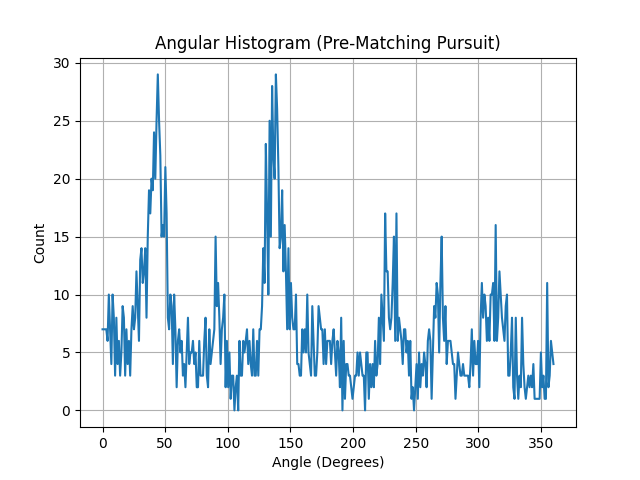
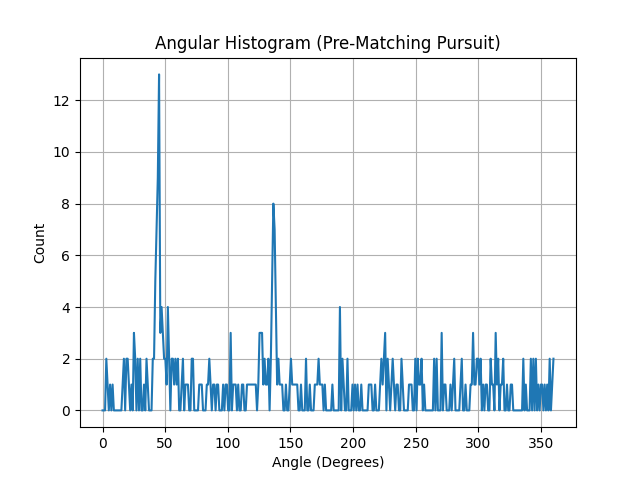
localization fixed

diff --git a/localization/algo.py b/localization/algo.py
@@ -3,16 +3,17 @@ import scipy.signal as signal
 from scipy.linalg import eigh
 
 class LocalizationSystem:
-    def __init__(self, mic_pos, fs=16000, nfft=512, overlap=0.5, epsilon=0.2, d_freq=2, freq_range=(200, 3000)):
+    def __init__(self, mic_pos, fs=16000, nfft=512, overlap=0.5, epsilon=0.2, d_freq=2, freq_range=(200, 3000), max_sources=4):
         """
         Args:
             mic_pos: (3, M) numpy array of microphone positions.
             fs: Sampling frequency.
             nfft: FFT size.
             overlap: Overlap fraction (0 to 1).
-            epsilon: SSZ detection threshold (lambda2 / lambda1 < epsilon).
+            epsilon: SSZ detection threshold (correlation >= 1 - epsilon).
             d_freq: Number of frequency components to group/average per zone.
             freq_range: Tuple (min_freq, max_freq) in Hz to process.
+            max_sources: Maximum number of sources to detect in Matching Pursuit.
         """
         self.mic_pos = mic_pos
         self.fs = fs
@@ -21,6 +22,7 @@ class LocalizationSystem:
         self.epsilon = epsilon
         self.d_freq = d_freq
         self.freq_range = freq_range
+        self.max_sources = max_sources
         self.c = 343.0  # Speed of sound
 
     def process(self, audio):
@@ -59,44 +61,57 @@ class LocalizationSystem:
                 # Extract block: (M, d_freq)
                 block = Zxx[:, f_idx : f_idx + self.d_freq, t_idx] # Shape (M, d)
                 
-                # Compute Spatial Correlation Matrix R (averaged over the d freq bins)
-                # R = (1/d) * sum(x * x^H)
-                R = np.zeros((M, M), dtype=complex)
-                for k in range(self.d_freq):
-                    vec = block[:, k][:, np.newaxis] # (M, 1)
-                    R += vec @ vec.conj().T
-                R /= self.d_freq
+                # --- New SSZ Detection: Magnitude Correlation Coefficient ---
+                # r' = sum(|Xi||Xj|) / sqrt(sum|Xi|^2 sum|Xj|^2)
+                # Averaged over adjacent pairs.
                 
-                # SSZ Detection
-                # Eigen decomposition
-                # eigh returns eigenvalues in ascending order
-                eigvals = eigh(R, eigvals_only=True)
-                # eigvals are sorted ascending: lambda_0 <= lambda_1 ... <= lambda_{M-1}
-                # We want lambda_{M-2} / lambda_{M-1} < epsilon
-                # (Ratio of second largest to largest)
+                mags = np.abs(block) # (M, d)
                 
-                if eigvals[-1] > 1e-10: # Avoid division by zero/noise
-                    ratio = eigvals[-2] / eigvals[-1]
-                    if ratio < self.epsilon:
-                        # It is an SSZ. Estimate DOA.
-                        # CICS: maximize coherent sum of phase rotated cross-power spectra.
-                        # Actually for a single zone, this is equivalent to finding the peak 
-                        # of the beamformer spectrum or SRP.
-                        
-                        # Frequencies in this zone
-                        freqs = f_vec[f_idx : f_idx + self.d_freq]
-                        
-                        best_angle = self._cics_doa(R, freqs, search_angles)
-                        ssz_doas.append(best_angle)
+                # Compute energies for denominator
+                energies = np.sum(mags**2, axis=1) # (M,)
+                
+                # Check for silence to avoid div by zero
+                if np.any(energies < 1e-10):
+                    continue
+                
+                avg_corr = 0.0
+                
+                for i in range(M):
+                    j = (i + 1) % M
+                    
+                    # Numerator: sum over freq of |Xi||Xj|
+                    num = np.sum(mags[i] * mags[j])
+                    
+                    # Denominator
+                    den = np.sqrt(energies[i] * energies[j])
+                    
+                    corr = num / den
+                    avg_corr += corr
+                
+                avg_corr /= M
+                
+                if avg_corr >= (1.0 - self.epsilon):
+                    # It is an SSZ. Estimate DOA.
+                    
+                    # For DOA estimation, we still need the Spatial Correlation Matrix R
+                    # R = (1/d) * sum(x * x^H)
+                    R = np.zeros((M, M), dtype=complex)
+                    for k in range(self.d_freq):
+                        vec = block[:, k][:, np.newaxis] # (M, 1)
+                        R += vec @ vec.conj().T
+                    R /= self.d_freq
+                    
+                    # Frequencies in this zone
+                    freqs = f_vec[f_idx : f_idx + self.d_freq]
+                    
+                    best_angle = self._cics_doa(R, freqs, search_angles)
+                    ssz_doas.append(best_angle)
 
         # 2. Histogram Construction
         # Simple histogram
         hist, edges = np.histogram(ssz_doas, bins=360, range=(0, 2*np.pi))
         
-        # Smooth histogram? The prompt mentions "matching pursuit loop w blackman window atoms".
-        # This implies we use the MP on the histogram itself.
-        
-        # 3. Matching Pursuit
+        # 3. Matching Pursuit (Updated)
         final_doas = self._matching_pursuit(hist, edges)
         
         return final_doas, hist
@@ -108,64 +123,26 @@ class LocalizationSystem:
         M = self.mic_pos.shape[1]
         num_angles = len(angles)
         
-        # CICS function: P(phi) = Sum_{i,j} | R_ij | * cos( phase(R_ij) - omega * tau_ij(phi) )
-        # OR simply Beamformer Output Power: w^H R w
-        # The prompt says: "maximize coherent sum of phase rotated cross-power spectra"
-        # This usually means: Sum_{i!=j} R_ij * exp(-j * omega * tau_ij)
-        # We can sum this over the 'd' frequencies.
-        
-        # Let's vectorize over angles.
-        
         # Mic positions (2D)
         pos_x = self.mic_pos[0, :]
         pos_y = self.mic_pos[1, :]
         
         # Direction vectors for all search angles
-        # u = [cos(phi), sin(phi)]
         u_x = np.cos(angles)
         u_y = np.sin(angles)
         
-        cost = np.zeros(num_angles)
-        
-        # Precompute TDOAs for all pairs is expensive? 
-        # Let's optimize: sum over pairs.
-        
-        # We can iterate over frequencies in the zone
-        for k, f_hz in enumerate(freqs):
-            omega = 2 * np.pi * f_hz
-            k_wave = omega / self.c
-            
-            # Extract R for this freq (Wait, R passed in is Averaged R)
-            # If R is averaged, we can't strictly apply different phase shifts for different freqs 
-            # effectively unless we assume narrowband or center freq.
-            # "d=2" is small, so we can use the center frequency of the zone.
-            pass
-            
-        # Use center frequency of the zone for the phase shift approximation
+        # Use center frequency of the zone
         center_freq = np.mean(freqs)
         omega = 2 * np.pi * center_freq
         k_wave = omega / self.c
         
-        # SRP-PHAT style or just SRP on R
-        # P(phi) = sum_{i, j} R_ij * exp(-j * k * (r_i - r_j) . u)
-        
-        # Vectorized implementation:
-        # P(phi) = v(phi)^H * R * v(phi)  where v is steering vector
-        # v_i(phi) = exp(-j * k * (x_i cos phi + y_i sin phi))
-        
         # Calculate exponents for all mics and angles: (M, NumAngles)
-        # pos (2, M) . u (2, NumAngles) -> (M, NumAngles)
         proj = pos_x[:, np.newaxis] * u_x + pos_y[:, np.newaxis] * u_y
-        phases = 1j * k_wave * proj
+        phases = 1j * k_wave * proj # Corrected sign
         steering_vecs = np.exp(phases) # (M, A)
         
-        # P(phi) = sum_phi | v_phi^H * R * v_phi |
-        #        = sum_phi real(sum_i sum_j v_i* R_ij v_j)
-        
-        # Optimize: P = sum( (v^H R) .* v^T, axis=0 ) ?
-        # R @ steering_vecs -> (M, A)
+        # Beamformer Output Power: P(phi) = v^H R v
         temp = R @ steering_vecs
-        # Element-wise multiply by conj(steering_vecs) and sum over M
         P = np.sum(np.conj(steering_vecs) * temp, axis=0)
         
         best_idx = np.argmax(np.abs(P))
@@ -174,46 +151,72 @@ class LocalizationSystem:
     def _matching_pursuit(self, hist, edges):
         """
         Iterative matching pursuit on the histogram.
-        Atoms: Blackman window.
+        Uses Dual-Width Atoms and Smoothing.
         """
-        # Create a Blackman window atom
-        # We need to define the width of the atom. 
-        # Pavlidi 2013: "The width of the window is determined by the array aperture"
-        # Let's pick a reasonable width, e.g., 30 degrees or similar.
-        # Or better, define it in bins.
+        # 1. SMOOTH the histogram first
+        # Use an averaging filter (approx 5 degrees -> 5 bins if 360 bins)
+        kernel_size = 5
+        smoothing_kernel = np.ones(kernel_size) / kernel_size
         
-        current_hist = hist.astype(float)
+        # Circular convolution for smoothing
+        smoothed_hist = np.convolve(np.pad(hist, (kernel_size, kernel_size), mode='wrap'), smoothing_kernel, mode='same')
+        # Crop back to original size (handling the padding)
+        smoothed_hist = smoothed_hist[kernel_size:-kernel_size]
+        
+        # Ensure we didn't drift size
+        if len(smoothed_hist) != len(hist):
+             # Fallback to simple same mode without wrap if logic fails, but let's try to be precise
+             smoothed_hist = np.convolve(hist, smoothing_kernel, mode='same')
+
+        # 2. Define Dual Atoms
+        # Assuming 360 bins (1 degree per bin)
+        # Narrow: 40 deg -> 41 bins (must be odd usually for symmetry)
+        # Wide: 80 deg -> 81 bins
+        # Paper suggests 81 and 161 for L=720 (0.5 deg resolution).
+        # For L=360, we scale down by 2.
+        # Narrow ~ 41, Wide ~ 81.
+        atom_narrow_width = 41
+        atom_wide_width = 81
+        
+        atom_narrow = np.blackman(atom_narrow_width)
+        atom_wide = np.blackman(atom_wide_width)
+        
+        current_hist = smoothed_hist.copy().astype(float)
         detected_sources = []
         
-        # Atom definition
-        # Approx width of main lobe. For circular array, maybe 20-40 degrees?
-        # Let's say width is ~40 degrees -> ~40 bins if 360 bins.
-        atom_width = 40
-        atom = np.blackman(atom_width)
+        # Threshold: Dynamic or static?
+        # Paper suggests dynamic based on history, but here we process batch.
+        # Let's use a relative threshold of the max peak found initially
+        initial_max = np.max(current_hist)
+        threshold = initial_max * 0.15 # Stop if peak is < 15% of max
         
-        # Iterate
-        max_iter = 10 # Safety break
-        for _ in range(max_iter):
+        for j in range(self.max_sources):
+            # Find peak using Narrow logic conceptually (peak of smoothed hist)
             peak_idx = np.argmax(current_hist)
             peak_val = current_hist[peak_idx]
             
-            if peak_val < 5: # Threshold to stop (noise floor)
+            if peak_val < threshold:
                 break
-                
+            
             # Convert bin index to angle
-            # edges has 361 points for 360 bins
             angle = (edges[peak_idx] + edges[peak_idx+1]) / 2
             detected_sources.append(angle)
             
-            # Subtract atom
-            # We need to handle circular wrap-around
-            indices = np.arange(peak_idx - atom_width//2, peak_idx - atom_width//2 + atom_width)
-            wrap_indices = indices % len(current_hist)
-            
-            # Scale atom
-            scaled_atom = atom * peak_val
-            
-            # Subtract (relu to keep positive?)
-            current_hist[wrap_indices] = np.maximum(0, current_hist[wrap_indices] - scaled_atom)
+            # 3. MASKING: Subtract using the WIDE atom
+            # We subtract the WIDE atom scaled to the peak value
+            self._subtract_circular_atom(current_hist, peak_idx, atom_wide, peak_val)
             
         return detected_sources
+
+    def _subtract_circular_atom(self, hist, center_idx, atom, scale):
+        """
+        Subtracts a scaled atom from the histogram handling circular wrapping.
+        """
+        N = len(hist)
+        L = len(atom)
+        start = center_idx - L // 2
+        
+        indices = np.arange(start, start + L)
+        wrap_indices = indices % N
+        
+        hist[wrap_indices] = np.maximum(0, hist[wrap_indices] - atom * scale)

diff --git a/localization/main.py b/localization/main.py
@@ -57,16 +57,55 @@ def main():
     room.add_microphone_array(mic_array_pra)
     
     # --- Add Sources ---
-    # Generate 1 second of white noise
     duration = 1.0
     num_samples = int(fs * duration)
     
+    # Load a speech file if possible, else generate bursty noise
+    try:
+        from scipy.io import wavfile
+        import scipy.signal as signal_ops
+        
+        wav_path = Path("beamforming/input/matthew_talking.wav")
+        if wav_path.exists():
+            sr_wav, audio_wav = wavfile.read(wav_path)
+            # Resample if needed
+            if sr_wav != fs:
+                # simple resample (this might be slow for long files, but fine for 1s)
+                # Actually, let's just use it if close, or resample.
+                # calculate number of samples needed
+                num_samples_wav = int(len(audio_wav) * fs / sr_wav)
+                audio_wav = signal_ops.resample(audio_wav, num_samples_wav)
+            
+            # Normalize
+            audio_wav = audio_wav.astype(float)
+            audio_wav /= np.max(np.abs(audio_wav))
+            
+            base_signal = audio_wav
+            print(f"Using speech file: {wav_path}")
+        else:
+            raise FileNotFoundError("Wav file not found")
+    except Exception as e:
+        print(f"Fallback to synthetic bursty noise: {e}")
+        # Generate bursty noise (white noise modulated by low freq sine)
+        t = np.linspace(0, duration, num_samples)
+        envelope = np.abs(np.sin(2 * np.pi * 3 * t)) # 3Hz modulation
+        base_signal = np.random.randn(num_samples) * envelope
+
+    # Ensure base_signal is long enough
+    if len(base_signal) < num_samples:
+         # Loop it
+         repeats = int(np.ceil(num_samples / len(base_signal)))
+         base_signal = np.tile(base_signal, repeats)[:num_samples]
+    else:
+         base_signal = base_signal[:num_samples]
+
     audio_sources_objects = []
     
     print("Adding sources:")
     for i, loc in enumerate(source_locs):
-        # Create independent white noise
-        signal = np.random.randn(num_samples)
+        # Time shift signal for different sources to make them distinct/decorrelated
+        shift = int(fs * 0.5 * i)
+        signal = np.roll(base_signal, shift)
         
         # Add to room
         room.add_source(loc, signal=signal)
@@ -105,8 +144,9 @@ def main():
         fs=fs,
         nfft=512,
         overlap=0.5,
-        epsilon=0.2,
-        d_freq=2
+        epsilon=0.1, # Updated epsilon for correlation metric (1 - 0.9 = 0.1)
+        d_freq=8, # Increased d_freq for better correlation estimate
+        max_sources=2
     )
     
     estimated_doas_rad, histogram = loc_system.process(mic_signals)
